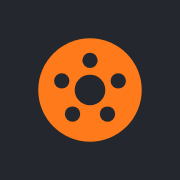
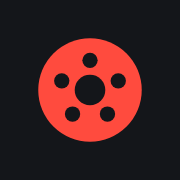
Farby F (biela + korálová), oprava TOP kariet, test puklíc, denník
Claude-Session: https://claude.ai/code/session_01L7iVmngHYA52Prari7JxdS

Changed region(s): [[0.1944, 0.1944, 0.8056, 0.8056]]

diff --git a/testy-e2e/test_cely_postup.js b/testy-e2e/test_cely_postup.js
@@ -248,24 +248,51 @@ const TERMS = /TERMS_VERSION = "([^"]+)"/.exec(require("fs").readFileSync((proce
     await b2.click(".msgbox >> text=Odoslať správu"); await b2.waitForSelector("text=Správa bola odoslaná");
     global.CUR = pg; await pg.goto(B + "/predajca#msg"); await pg.reload(); await pg.waitForSelector(".pp-msgs li:has-text('Celé vozidlo')");
   });
-  await step("pneumatiky a disky: parametre vo formulari a filtri", async () => {
-    await pg.click(".pp-nav button:has-text('Jeden inzerát')"); await pg.fill(".pp-form label:has-text('Názov dielu') input", "Disky 16 Škoda 5x112");
-    await pg.selectOption(".pp-form select:has(option:text-is('Pneumatiky a disky'))", { label: "Pneumatiky a disky" });
+  await step("pneumatiky, disky, puklice: vlastny formular a zverejnenie puklic", async () => {
+    await pg.click(".pp-nav button:has-text('Jeden inzerát')"); await pg.waitForSelector(".pp-wheels-cta");
+    if (await pg.locator(".pp-form select option:text-is('Pneumatiky a disky')").count()) throw new Error("pneumatiky su este v beznych kategoriach");
+    await pg.click(".pp-wheels-cta >> text=Pridať pneumatiky a disky"); await pg.waitForSelector("h1:has-text('Predať pneumatiky, disky alebo puklice')");
+    if (await pg.locator(".pp-vt-big").count()) throw new Error("pri pneumatikach sa pyta druh vozidla");
     await pg.click("text=Ďalej →"); await pg.waitForSelector(".pp-ferr:has-text('čo predávate')");
-    // pneumatiky: rozmer, sezóna zo zvolenej podkategórie, bez čísla dielu
-    await pg.selectOption(".pp-form label:has-text('Čo predávate') select", { label: "Pneumatiky zimné" }); await pg.waitForSelector(".pp-specg legend:text-is('Pneumatika')");
+    // pneumatiky: rozmer, sezóna zo zvolenej dlaždice, bez čísla dielu
+    await pg.click(".pp-wt-g button:text-is('Pneumatiky zimné')"); await pg.waitForSelector(".pp-specg legend:text-is('Pneumatika')");
     if (await pg.locator(".pp-form label:has-text('OEM')").count()) throw new Error("pri pneumatikách je pole OEM");
     if (await pg.inputValue(".pp-specg label:has-text('Sezóna') select") !== "zimné") throw new Error("sezóna sa nevyplnila");
+    await pg.fill(".pp-form label:has-text('Názov inzerátu') input", "Disky 16 Škoda 5x112");
     await pg.click("text=Ďalej →"); await pg.waitForSelector(".pp-ferr:has-text('šírka pneumatiky')");
     // disky
-    await pg.selectOption(".pp-form label:has-text('Čo predávate') select", { label: "Disky hliníkové" }); await pg.waitForSelector(".pp-specg legend:text-is('Disk')");
+    await pg.click(".pp-wt-g button:text-is('Disky hliníkové')"); await pg.waitForSelector(".pp-specg legend:text-is('Disk')");
     if (await pg.locator(".pp-specg legend:text-is('Pneumatika')").count()) throw new Error("pri diskoch sú polia pneumatiky");
     await pg.fill(".pp-specg label:has-text('Rozteč') input", "5x112"); await pg.selectOption(".pp-specg label:has-text('Priemer') select", "16");
-    await pg.fill(".pp-specg label:has-text('Zális') input", "abc"); await pg.fill(".pp-form label:has-text('OEM') input", "5E0601025");
+    await pg.fill(".pp-specg label:has-text('Zális') input", "abc");
     await pg.click("text=Ďalej →"); await pg.waitForSelector(".pp-ferr:has-text('Doplňte alebo opravte')");
     await pg.fill(".pp-specg label:has-text('Zális') input", "46"); await pg.fill(".pp-specg label:has-text('Šírka disku') input", "6.5"); await pg.fill(".pp-specg label:has-text('Počet kusov') input", "4");
     await pg.click("text=Ďalej →"); await pg.waitForSelector(".pp-form label:has-text('Značka auta')");
     if (await pg.locator(".pp-form label:has-text('Prevodovka auta')").count()) throw new Error("pri diskoch je prevodovka auta");
+    // puklice – celé zverejnenie
+    await pg.click(".pp-steps button[aria-label^='Krok 1']"); await pg.click(".pp-wt-g button:text-is('Puklice')"); await pg.waitForSelector(".pp-specg legend:text-is('Puklice')");
+    if (await pg.locator(".pp-specg legend:text-is('Disk')").count()) throw new Error("pri puklicich su polia disku");
+    await pg.fill(".pp-form label:has-text('Názov inzerátu') input", "Puklice 15 originál Škoda");
+    await pg.click("text=Ďalej →"); await pg.waitForSelector(".pp-ferr:has-text('Doplňte')");
+    await pg.selectOption(".pp-specg label:has-text('Priemer') select", "15");
+    await pg.click("text=Ďalej →"); await pg.waitForSelector(".pp-form label:has-text('Značka auta')");
+    await pg.click("text=Ďalej →");
+    await pg.selectOption("label:has-text('Stav') select", "Dobrý"); await pg.fill("label:has-text('Cena') input", "25");
+    await pg.click("text=Ďalej →");
+    await pg.setInputFiles(".pp-add input[type=file]", ["a.png"]); await pg.waitForSelector(".pp-phl figure");
+    await pg.fill("label:has-text('Popis') textarea", "Sada štyroch originálnych puklíc, bez prasklín.");
+    await pg.click("text=Ďalej →"); await pg.click("text=Zverejniť inzerát");
+    await pg.waitForSelector(".pp-toast:has-text('je zverejnený')", { timeout: 30000 });
+    await pg.waitForSelector(".pp-row:has-text('Puklice 15 originál Škoda')");
+    // kupujúci: sekcia Puklice bez druhov vozidiel, stav len nové/použité
+    const b = await ctx.newPage(); await b.goto(B + "/?kat=kol&typ=puklice#pneu"); await b.waitForSelector(".wb-type button[aria-checked=true]:has-text('Puklice')");
+    if (await b.locator(".panel.finder .vtabs").count()) throw new Error("v pneumatikach su druhy vozidiel");
+    await b.waitForSelector(".card:has-text('Puklice 15 originál Škoda')");
+    const conds = await b.locator(".adv label:has-text('Stav') option").allTextContents();
+    if (conds.join("|") !== "Nové aj použité|Nové|Použité") throw new Error("stav v pneumatikach: " + conds.join("|"));
+    await b.selectOption(".adv label:has-text('Stav') select", "pouzite"); await b.waitForSelector(".card:has-text('Puklice 15 originál Škoda')");
+    await b.selectOption(".adv label:has-text('Stav') select", "Nový"); await b.waitForSelector(".cnt:has-text('0 ponúk')");
+    await b.close();
   });
   await step("export CSV a hromadna cena", async () => {
     await pg.click(".pp-nav button:has-text('Moje inzeráty')"); await pg.waitForSelector(".pp-row");

diff --git a/web/app/globals.css b/web/app/globals.css
@@ -1442,7 +1442,7 @@ nav.snav{border-bottom:0}
 .panel.finder .vtabs button.on{color:var(--ink)!important;box-shadow:inset 0 3px 0 var(--acc)}
 .chip[aria-pressed="true"],.c-cats button[aria-pressed="true"]{background:var(--pet)!important;border-color:var(--pet)!important;color:#fff!important}
 .c-cats button[aria-pressed="true"]{box-shadow:inset 4px 0 0 var(--acc)}
-.is-top,.badge-top,.top-b{background:var(--acc)!important;color:var(--accink)!important}
+.toptag{background:var(--acc)!important;color:var(--accink)!important}
 @media (prefers-color-scheme:dark){:root:not([data-theme="light"]) .finder .find-alt button:not(.scan-b):not(.lnk){color:var(--ink)!important;border-color:var(--field)!important}
   :root:not([data-theme="light"]) .panel.finder .vtabs button.on{color:var(--ink)!important}
   :root:not([data-theme="light"]) .site-header{border-bottom-color:var(--acc)!important}}
@@ -1522,3 +1522,39 @@ nav.snav{border-bottom:0}
 .pp-wt-g button.on{border-color:var(--pet);background:var(--pet);color:#fff}
 .pp-wtiles.bad .pp-wt-g button{border-color:var(--bad,#c0392b)}
 .pp-wt-other{max-width:340px}
+
+
+/* ================= Biela a korálová (12. 11. 2026, 19:00) – majiteľ vybral návrh F =================
+   Moderný čistý vzhľad: biela hlavička, takmer čierny text, jedna výrazná farba – korálová #ff4b3e
+   (tlačidlá, aktívna sekcia, logo). Odkazy tmavšia korálová #c9302a (čitateľná na bielej). */
+:root{--pet:#14161a;--pet2:#2a2e35;--link:#c9302a;--icoink:#14161a;--acc:#ff4b3e;--accink:#fff;--acc2:#e83a2e;--bg:#f5f6f8;--line:#e3e5e9}
+@media (prefers-color-scheme:dark){:root:not([data-theme="light"]){--pet:#14161a;--pet2:#2a2e35;--link:#ff7a70;--icoink:#ff7a70;--acc:#ff4b3e;--accink:#fff;--acc2:#e83a2e}}
+:root[data-theme="dark"]{--pet:#14161a;--pet2:#2a2e35;--link:#ff7a70;--icoink:#ff7a70;--acc:#ff4b3e;--accink:#fff;--acc2:#e83a2e}
+/* hlavička svetlá (tmavý režim: tmavá karta) */
+.site-header{background:var(--card)!important;color:var(--ink);border-bottom:1px solid var(--line)!important}
+.site-header .wm{color:var(--ink)}.site-header .wm-eu{color:var(--acc)}
+.site-header .brand svg circle:first-of-type{fill:var(--acc)}.site-header .brand svg circle:not(:first-of-type){fill:var(--card)}
+.site-header .gs{background:var(--chip)!important;border:1px solid var(--line)!important}
+.site-header .gs input{background:var(--chip)!important;color:var(--ink)!important}
+.site-header .gs input::placeholder{color:var(--mute)}
+.site-header .gs button,.site-header .gs .gsb{background:var(--acc)!important;color:#fff!important}
+.site-header .ubtn,:root .site-header .ubtn{color:var(--ink)!important;border-color:var(--ink)!important;background:transparent!important}
+.site-header .ubtn:hover,:root .site-header .ubtn:hover{background:var(--ink)!important;color:var(--card)!important;border-color:var(--ink)!important}
+nav.snav{background:var(--card)!important;border-top:1px solid var(--line)!important;border-bottom:1px solid var(--line)!important}
+nav.snav a{color:var(--mute)!important}
+nav.snav a:hover{color:var(--ink)!important}
+nav.snav a[aria-current="page"]{color:var(--ink)!important;border-bottom-color:var(--acc)!important}
+/* akcie */
+.finder .pa .btn,.finder .btn,.intro-cta .btn{background:var(--acc)!important;color:#fff!important}
+.finder .pa .btn:hover,.finder .btn:hover,.intro-cta .btn:hover{background:var(--acc2)!important}
+.panel.finder .vtabs button.on{box-shadow:inset 0 3px 0 var(--acc)}
+.intro-pts li{border-left-color:var(--acc)}
+.intro-mark rect{fill:var(--ink)}.intro-mark circle:first-of-type{fill:var(--acc)}.intro-mark circle:not(:first-of-type){fill:var(--ink)}
+.price{background:none!important;color:var(--ink)}
+.toptag{background:var(--acc)!important;color:#fff!important}
+.c-cats button[aria-pressed="true"]{box-shadow:inset 4px 0 0 var(--acc)}
+.blog-tip{border-left-color:var(--acc)}
+.pp-wheels-cta{border-left-color:var(--acc)}
+.call{background:var(--ink);color:var(--card)}
+.call:hover{background:var(--acc);color:#fff}
+.grid.rows .card.is-top{border-color:var(--acc)}

diff --git a/web/components/Home.tsx b/web/components/Home.tsx
@@ -347,7 +347,7 @@ export default function Home({ ssr }: { ssr?: HomeSsr | null }) {
               <span className="wb-l">Priemer puklíc</span>
               <div className="wb-disk"><label>Priemer<select value={f.specs.rd || ""} onChange={(e) => setSpec("rd", e.target.value)}>{opt("", "každý")}{RIM_DIAMETERS.map((x) => opt(x, x + "\""))}</select></label></div>
             </div>}
-            <p className="wb-hint">{f.wtype === "puklice" ? <>Priemer puklice je rovnaký ako priemer disku – nájdete ho na boku pneumatiky za písmenom R, napr. 195/65 <b>R15</b> = 15".</> : f.wtype === "disk" || f.wtype === "kolesa" ? <>Rozmer disku je vyrazený na jeho vnútornej strane, napr. <b>7J×16 ET45 5x112</b>: šírka 7, priemer 16, zális 45, rozteč 5x112.</> : <>Rozmer nájdete na boku pneumatiky, napr. <b>205/55 R16 91V</b>: šírka 205, profil 55, priemer 16.</>}</p>
+            <p className="wb-hint">{f.wtype === "puklice" ? <>Priemer puklice je rovnaký ako priemer disku – nájdete ho na boku pneumatiky za písmenom R, napr. 195/65 <b>R15</b> = 15{"\""}.</> : f.wtype === "disk" || f.wtype === "kolesa" ? <>Rozmer disku je vyrazený na jeho vnútornej strane, napr. <b>7J×16 ET45 5x112</b>: šírka 7, priemer 16, zális 45, rozteč 5x112.</> : <>Rozmer nájdete na boku pneumatiky, napr. <b>205/55 R16 91V</b>: šírka 205, profil 55, priemer 16.</>}</p>
             <div className="pa"><button type="button" className="lnk" onClick={() => set({ wtype: f.wtype, specs: {}, brand: null, model: null })}>Zrušiť rozmery</button><button className="btn" onClick={toRes}>Zobraziť {f.wtype === "disk" ? "disky" : f.wtype === "kolesa" ? "kolesá" : f.wtype === "pneu" ? "pneumatiky" : f.wtype === "puklice" ? "puklice" : "ponuky"}</button></div>
           </div>}
           {!wheels && <button type="button" className="find-alt-t" aria-expanded={altOpen} onClick={() => setAltOpen(!altOpen)}>{altOpen ? "Skryť hľadanie podľa čísla dielu a VIN" : "Mám číslo dielu alebo VIN"}</button>}

diff --git a/web/components/seller/ListingForm.tsx b/web/components/seller/ListingForm.tsx
@@ -202,7 +202,7 @@ export default function ListingForm({ uid, cat, prof, edit, donor, onSaved, whee
             <span className="mute">Polia s <em className="req">*</em> sú povinné – kupujúci podľa nich hľadajú.{(kind === "pneu" || kind === "kolesa") && " Rozmer nájdete na boku pneumatiky (napr. 205/55 R16 91V), rok výroby v kóde DOT (posledné 4 číslice, napr. 2321 = 2021)."}{(kind === "disk" || kind === "kolesa") && " Rozmer disku je vyrazený na jeho zadnej strane (napr. 7Jx16 ET49)."}{kind === "puklice" && " Priemer puklice = priemer disku (číslo za R na pneumatike, napr. R15 = 15\")."}{kind === "kolesa" && <> <b>Stačí rozmer pneumatiky alebo rozmer disku</b> – vyplňte, čo viete; čím viac údajov, tým ľahšie vás kupujúci nájde.</>}</span>
             <div className="pp-specg">
               {kind === "puklice" && <fieldset><legend>Puklice</legend>
-                {SI("rd", <select value={specs.rd || ""} onChange={(e) => setSpec("rd", e.target.value)}><option value="">–</option>{RIM_DIAMETERS.map((d) => <option key={d} value={d}>{d}"</option>)}</select>)}
+                {SI("rd", <select value={specs.rd || ""} onChange={(e) => setSpec("rd", e.target.value)}><option value="">–</option>{RIM_DIAMETERS.map((d) => <option key={d} value={d}>{d}{"\""}</option>)}</select>)}
               </fieldset>}
               {(kind === "pneu" || kind === "kolesa") && <fieldset><legend>Pneumatika</legend>
                 {SI("tw", <input inputMode="numeric" placeholder="205" value={specs.tw || ""} onChange={(e) => setSpec("tw", e.target.value)} />)}

diff --git a/web/components/Logo.tsx b/web/components/Logo.tsx
@@ -1,13 +1,13 @@
-// Logo autosuciastky.eu: oranžový náboj kolesa s piatimi otvormi na skrutky v grafitovom štvorci.
+// Logo autosuciastky.eu: korálový náboj kolesa s piatimi otvormi na skrutky v čiernom štvorci.
 // Vlastný jednoduchý tvar – nie je odvodený od žiadnej značky.
 export function LogoMark({ size = 32, className }: { size?: number; className?: string }) {
   const holes = [0, 1, 2, 3, 4].map((i) => { const a = (-90 + i * 72) * (Math.PI / 180); return [16 + 6.6 * Math.cos(a), 16 + 6.6 * Math.sin(a)]; });
   return (
     <svg className={className} width={size} height={size} viewBox="0 0 32 32" aria-hidden="true" focusable="false">
-      <rect width="32" height="32" rx="6" fill="#24282e" />
-      <circle cx="16" cy="16" r="11.5" fill="#ff7a1a" />
-      <circle cx="16" cy="16" r="3.4" fill="#24282e" />
-      {holes.map(([x, y], i) => <circle key={i} cx={x.toFixed(2)} cy={y.toFixed(2)} r="1.7" fill="#24282e" />)}
+      <rect width="32" height="32" rx="6" fill="#14161a" />
+      <circle cx="16" cy="16" r="11.5" fill="#ff4b3e" />
+      <circle cx="16" cy="16" r="3.4" fill="#14161a" />
+      {holes.map(([x, y], i) => <circle key={i} cx={x.toFixed(2)} cy={y.toFixed(2)} r="1.7" fill="#14161a" />)}
     </svg>
   );
 }

diff --git a/web/app/layout.tsx b/web/app/layout.tsx
@@ -24,7 +24,7 @@ export const metadata: Metadata = {
   appleWebApp: { capable: true, title: "autosuciastky.eu", statusBarStyle: "default" },
 };
 export const viewport: Viewport = { width: "device-width", initialScale: 1, viewportFit: "cover",
-  themeColor: [{ media: "(prefers-color-scheme: light)", color: "#24282e" }, { media: "(prefers-color-scheme: dark)", color: "#1b1e23" }] };
+  themeColor: [{ media: "(prefers-color-scheme: light)", color: "#ffffff" }, { media: "(prefers-color-scheme: dark)", color: "#14161a" }] };
 
 export default function RootLayout({ children }: Readonly<{ children: React.ReactNode }>) {
   return (

diff --git a/web/app/manifest.ts b/web/app/manifest.ts
@@ -12,7 +12,7 @@ export default function manifest(): MetadataRoute.Manifest {
     display: "standalone",
     orientation: "portrait",
     background_color: "#f3f4f6",
-    theme_color: "#24282e",
+    theme_color: "#ffffff",
     categories: ["shopping", "auto"],
     icons: [
       { src: "/icons/icon-192.png", sizes: "192x192", type: "image/png", purpose: "any" },

diff --git a/DENNIK.md b/DENNIK.md
@@ -44,6 +44,7 @@ Hlavná verzia denníka je v Claude Docs „Rozoberačka – denník stavby“. 
 | 7. 11. 2026, 20:50 | Úvod: tlačidlo VIN premenované na „Hľadať podľa VIN“. Opravené „Najhľadanejšie diely“: tlačidlo teraz nastaví kategóriu a podkategóriu (napr. Predné svetlo → Svetlá / Predné svetlá) namiesto skrytého textu, zruší predchádzajúci text a kategóriu, vybrané auto ostane, druhé kliknutie výber zruší. Predtým text ostal skrytý a po výbere inej kategórie alebo ďalšieho tlačidla vyšlo 0 dielov. Aktívny hľadaný text sa ukazuje ako štítok „…“ ✕ nad výsledkami. Tlačidlo „Hľadať“ je nad hľadaním podľa čísla (vo webe už bolo, upravený aj `prototyp.html`). Test celého postupu doplnený o krok (46) | Majiteľ si pozeral starý náhľad prototypu z 2. 11. |
 | 7. 11. 2026, 22:15 | Doladenie celého webu po prehliadke (počítač aj mobil). Úvod: poradie Značka → Model → Motorizácia → Kategória, prázdne Obľúbené s tlačidlom „Zobraziť všetky diely“, kratší text pri VIN, v pätičke „Pre predajcov“. Detail: hlavná fotka sa načíta aj pri starších fotkách, na mobile lišta s cenou a „Zobraziť telefón“ dole pri posúvaní, „Poslať odkaz“ dáva plnú adresu `/diel/…` a na mobile otvorí zdieľanie (WhatsApp, SMS), správa predvyplní uložené „Moje auto“, malé karty s autom, „Odovzdanie“ namiesto „Zasielanie“, bez opakovaného upozornenia, štítok „Overený predajca“ sa nedelí. Stránky áut a kategórií: „sú 4 diely“, „na auto Škoda“, správne nadpisy kategórií (napr. „Použité diely interiéru“, „Použité karosárske diely“), prázdna stránka bez tlačidla filtrov. Stránka 404 s tlačidlami Hľadať a Dopyt, predajca bez dvojitého textu o hodnoteniach, návody zarovnané, chyba „dopyt sa nenašiel“ bez prekrytia, právne stránky na mobile bez pretekania. Prihlásenie: Zobraziť/Skryť heslo, výhody pri registrácii, odkaz „Vytvorte si ho zadarmo“. Portál: dátum a „Moja verejná stránka“ s malými písmenami, „3 telefóny / 3 zobrazenia“, profil zarovnaný, čas správ bez sekúnd, podkategória „Najprv vyberte kategóriu“, na mobile kroky formulára a filtre v jednom riadku. Databáza: `supabase/12` „Poloosi a kĺby“ (ostrá Supabase aj súbory). Test celého postupu 46/46 na produkčnom zostavení | — |
 | 7. 11. 2026, 23:10 | Nové stavy dielu „Nový (nepoužitý)“ a „Repasovaný“: databáza (`supabase/13`, firma pri novom diele záruka 24 mesiacov), formulár (pri novom diele firma vidí len 24 mesiacov), CSV import, filter Stav, farebné bodky, detail, štruktúrované dáta pre Google (NewCondition / RefurbishedCondition), obchodné podmienky (verzia 2026-11-07) a návod Bezpečný nákup. Ostrá Supabase: spustené a otestované 8/8 v zrušenej transakcii. Stránka predajcu ukazuje celú ponuku (predtým len 60 najnovších): hľadanie v ponuke, kategórie s počtami, zoradenie, „Načítať ďalšie“; v detaile odkaz „Všetky diely predajcu (N)“. Oprava: zmazaný diel ostával niekoľko minút na úvode a po kliknutí bola „Stránka neexistuje“ – `/api/obnovit` teraz obnoví aj úvod a stránky áut, kategórií a miest, aj pri zrušení účtu. Testy: databáza 38 + 10 + 19 + 31 + 11 + 8, celý postup 47/47 dvakrát po sebe na produkčnom zostavení | Záruky overiť s právnikom |
+| 12. 11. 2026, 19:30 | Podľa majiteľa: texty „Použité autodiely“ (bez „z vrakovísk“). Pneumatiky a disky pre kupujúcich: bez záložiek druhov vozidiel, nová možnosť **Puklice** (podľa priemeru), kolesá sa hľadajú len podľa disku, stav len Nové / Použité. Predajca: v menu nová položka **„Pneumatiky, disky, puklice“** – vlastný formulár, prvá otázka „Čo predávate?“ (dlaždice), druh vozidla sa nepýta, auto nepovinné; v bežnom formulári odkaz naň. `supabase/26` (puklice – povinný priemer, hľadanie puklíc, stav „použité“) – test 33: 7 kontrol, spustené v ostrej Supabase (overené). Nové farby: majiteľ vybral návrh **F – biela a korálová** (biela hlavička, korálová #ff4b3e). Opravená chyba: TOP inzeráty mali zafarbené celé pozadie. | Majiteľ skúsi pridať pneumatiky, disky a puklice v portáli. |
 | 12. 11. 2026, 18:30 | Nová farebná kombinácia (žlto-modrú používa aj autobazar.eu): grafitová hlavička #24282e s oranžovou linkou, oranžová #ff7a1a na hlavné tlačidlá (Hľadať, lupa), ceny a TOP, odkazy tmavooranžové. Logo: oranžový náboj kolesa. Nový **blog** (`/blog`, `/blog/<článok>`, odkaz v hlavičke, pätičke a mape webu) s 3 článkami: Ako kúpiť ojazdené auto (9 krokov, prepis do 30 dní, ODO-Pass z RPZV), Použité diely z vrakoviska, Zimné pneumatiky (povinnosť pri snehu/ľade, min. 3 mm, M+S vs. vločka, DOT). Fotky z Unsplash (zadarmo, s menom autora). Pás na úvode prerobený: vľavo čo portál ponúka + tlačidlá „Hľadať diel“ a „Predávam diely“, vpravo 3 najnovšie články s fotkami. | Majiteľ skontroluje, či sa fotky v článkoch zobrazujú, a pošle témy ďalších článkov. |
 | 11. 11. 2026, 22:00 | Lišta hľadania nanovo (tmavomodrý blok bol neprehľadný): biela karta na sivom pozadí, druh vozidla ako záložky karty (vybraná so žltým pásikom), polia so sivým okrajom, nedostupné polia svetlosivé, „Hľadať“ indigové; „Mám číslo dielu“ a „Mám VIN“ ako dve svetlosivé políčka. Bočné filtre (časť auta, cena, stav, mesto…) sa na úvode ukážu až po prvom hľadaní – dovtedy sú najnovšie diely na celú šírku. | Majiteľ pozrie úvod. |
 | 11. 11. 2026, 21:15 | Iná modrá (tá z 20:45 bola podobná autobazar.eu): tmavá indigová #1a2d6d + žltá. Nové logo – žltý náboj kolesa s 5 otvormi a nápis „autosuciastky.eu“ (žlté „.eu“); nové ikony aplikácie. Na úvode medzi hlavičkou a hľadaním biely pás: logo, čo portál ponúka a „Rady a návody“ (3 návody ako články, odkaz na všetky). „Z auta na diely“: pri každom diele tlačidlo „Fotky“ (až 8); diel s fotkou sa hneď zverejní, bez fotky ostane pozastavený. | Majiteľ pozrie farby, logo a pás s návodmi; neskôr pribudnú ďalšie články. |

diff --git a/CLAUDE.md b/CLAUDE.md
@@ -277,8 +277,15 @@ Overené na Slov-Lexe: Občiansky zákonník § 597, 599, 612, 618, 619 (znenie 
 - Lišta hľadania je **biela karta** na sivom pozadí (nie tmavomodrý blok): druh vozidla ako záložky karty (vybraná biela so žltým pásikom), polia s okrajom `--field`, „Hľadať“ a „Zobraziť pneumatiky“ indigové, „Mám číslo dielu“ a „Mám VIN“ ako svetlosivé políčka. Indigová hlavička ostáva. CSS: vrstva „Svetlá lišta hľadania“ na konci `globals.css`.
 - **Bočné filtre** (časť auta, cena, stav, mesto…) sa na úvode ukážu až keď človek hľadá: klikne „Hľadať“/číslo dielu/VIN/najhľadanejší diel, vyberie značku, časť auta alebo filter, alebo je v Pneumatikách (`searched` v `Home.tsx`, trieda `no-side`).
 
-## Grafit + oranžová a blog (12. 11. 2026)
+## Grafit + oranžová a blog (12. 11. 2026) – farby NAHRADENÉ bielou + korálovou (19:30), blog platí
 - Žlto-modrú používa aj autobazar.eu → nová kombinácia: **grafitová #24282e** (`--pet`; hlavička s oranžovou linkou dole, štítky, telefón) a **oranžová #ff7a1a** (`--acc`, text na nej tmavý `--accink`): „Hľadať“, lupa v hlavičke, aktívna sekcia, vybraný druh vozidla, zvýrazňovač ceny, TOP. Odkazy `--link` #b8420b (tmavý režim #ff9a52). Logo: oranžový náboj kolesa (`components/Logo.tsx`, `app/icon.svg`, ikony v `public/icons`). Žltá ani modrá sa nepoužívajú. CSS: vrstva „Grafit + oranžová“ na konci `globals.css`.
 - **Blog**: `lib/blog.tsx` (články ako dáta: nadpis, popis, dátum, téma, fotka, text), stránky `/blog` a `/blog/<slug>` (štruktúrované dáta BlogPosting), karta `components/BlogCard.tsx`, odkaz v hlavičke, pätičke a v mape webu. Na úvode (`components/HomeIntro.tsx`) vľavo čo portál ponúka a tlačidlá „Hľadať diel“ / „Predávam diely“, vpravo **3 najnovšie články** s fotkou.
 - Fotky článkov: **Unsplash, len s licenciou Unsplash (zadarmo)** – nie Unsplash+; načítavajú sa z images.unsplash.com (povolené v CSP `img-src`), pri fotke „Foto: autor / Unsplash“. Fakty v článkoch overovať (zdroje: slovensko.sk, rpzv.sk, výrobcovia pneumatík) a pri právnych veciach pridať upozornenie.
+
+## Pneumatiky, disky, puklice a farby F (12. 11. 2026, 19:30)
+- Texty: „**Použité autodiely**“ – nepísať „autodiely z vrakovísk“ (vrakoviská sa môžu spomenúť ako predajcovia).
+- **Kupujúci – Pneumatiky a disky** (`/?kat=kol`): bez záložiek druhov vozidiel (hľadá sa vo všetkých); typy Pneumatiky / Disky / Kolesá (disk s pneumatikou) / **Puklice** / Všetko (adresa `typ=puklice`). Kolesá sa hľadajú len podľa disku (priemer, rozteč, šírka, ET, materiál), puklice podľa priemeru. Bočný filter Stav len „Nové aj použité / Nové / Použité“ (`WHEEL_CONDS`, hodnota `pouzite` = všetko okrem „Nový“).
+- **Predajca**: v menu „Pridať inzeráty“ položka **„Pneumatiky, disky, puklice“** (záložka `wheels`, `ListingForm` s `wheelOnly`): kroky „Čo predávate → Auto (nepovinné) → …“, prvá otázka dlaždice (`WHEEL_SUBS`) + „Alebo iné“, druh vozidla sa nepýta (vtype podľa podkategórie). V bežnom formulári je kategória Pneumatiky a disky skrytá a hore je odkaz na tento formulár. Úprava existujúceho inzerátu z `kol` otvorí tento režim.
+- `supabase/26` (ostrá DB): pri puklicích povinný priemer (`specs.rd`), `search_listings` pozná `wtype` „puklice“ a stav „pouzite“. Test `supabase/testy/33_test_26.sql`.
+- **Farby (majiteľ vybral F – biela a korálová)**: biela hlavička s tmavým textom, jedna výrazná farba **korálová #ff4b3e** (`--acc`, biely text) na tlačidlá, aktívnu sekciu, logo a TOP; odkazy #c9302a; text #14161a. Logo: korálový náboj kolesa (v hlavičke bez štvorca, inde v čiernom štvorci). Tmavý režim: tmavá hlavička (`--card`). CSS: vrstva „Biela a korálová“ na konci `globals.css`. Pri návrhoch farieb ukazovať majiteľovi viac možností na obrázku a nechať ho vybrať.
 
